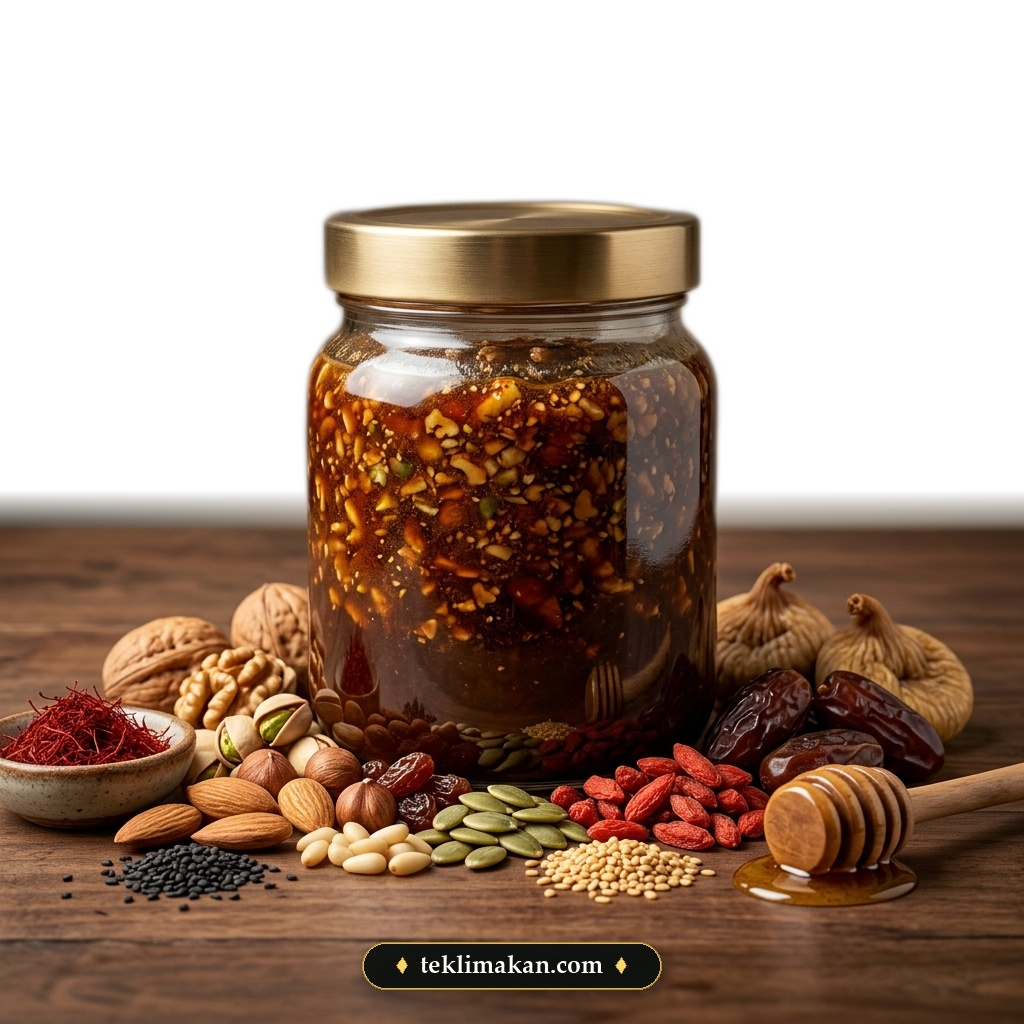
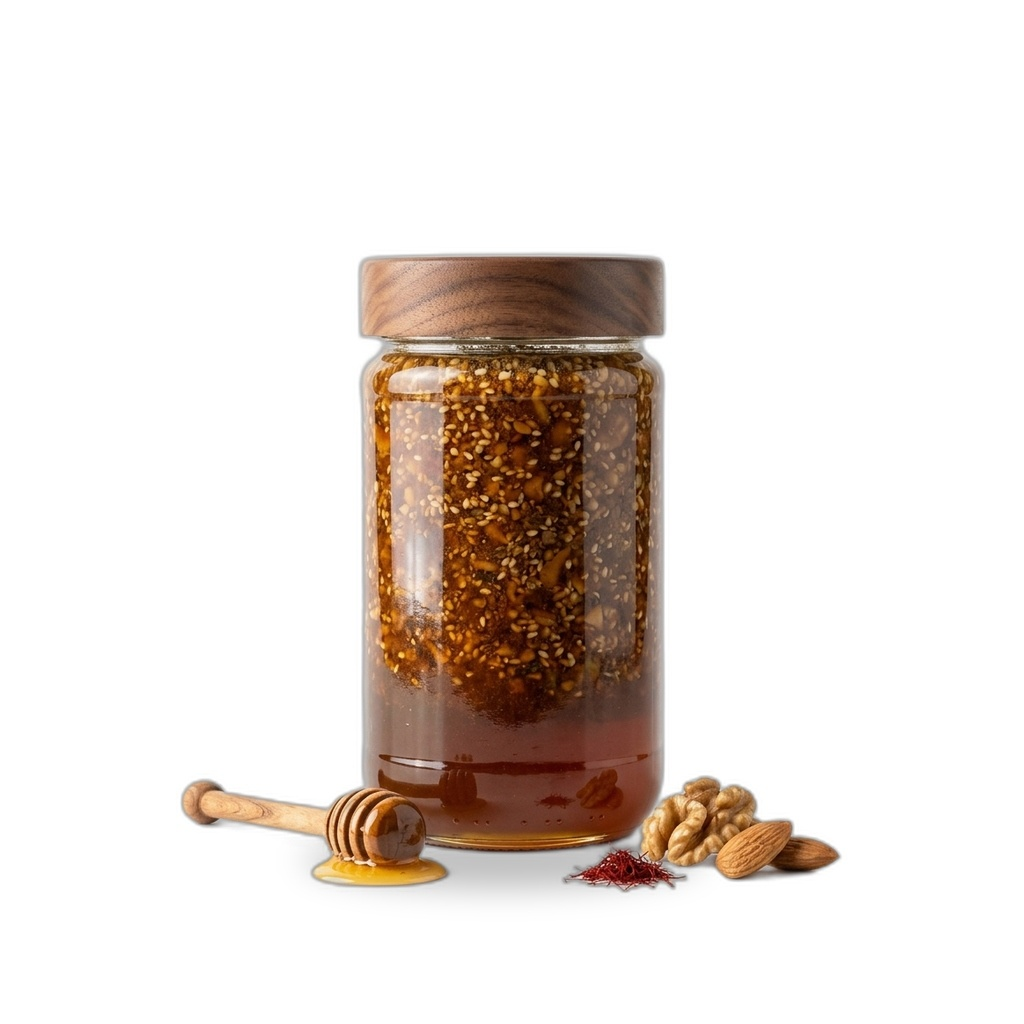
Deploy seamless pure white studio photo for PRD-475

diff --git a/js/store.js b/js/store.js
@@ -1895,7 +1895,7 @@ class StoreManager {
       localStorage.setItem(STORAGE_KEYS.BRANDS, JSON.stringify(INITIAL_BRANDS));
     }
     // 🛡 سىستېما تاۋار ساندانىنى تازىلاش ۋە كونا ئۆچۈرۈلگەن قالدۇق سۈرەتلەرنى بارلىق تېلېفون / ئۈسكۈنىلەردە پۈتۈنلەي پاكىزلاش
-    const STORE_PRODUCTS_RELEASE = 'v20261119_kuvvet_macunu_v1';
+    const STORE_PRODUCTS_RELEASE = 'v20261119_kuvvet_macunu_white_v2';
     const currentRelease = localStorage.getItem('teklimakan_products_release');
     if (currentRelease !== STORE_PRODUCTS_RELEASE) {
       localStorage.removeItem(STORAGE_KEYS.PRODUCTS);
